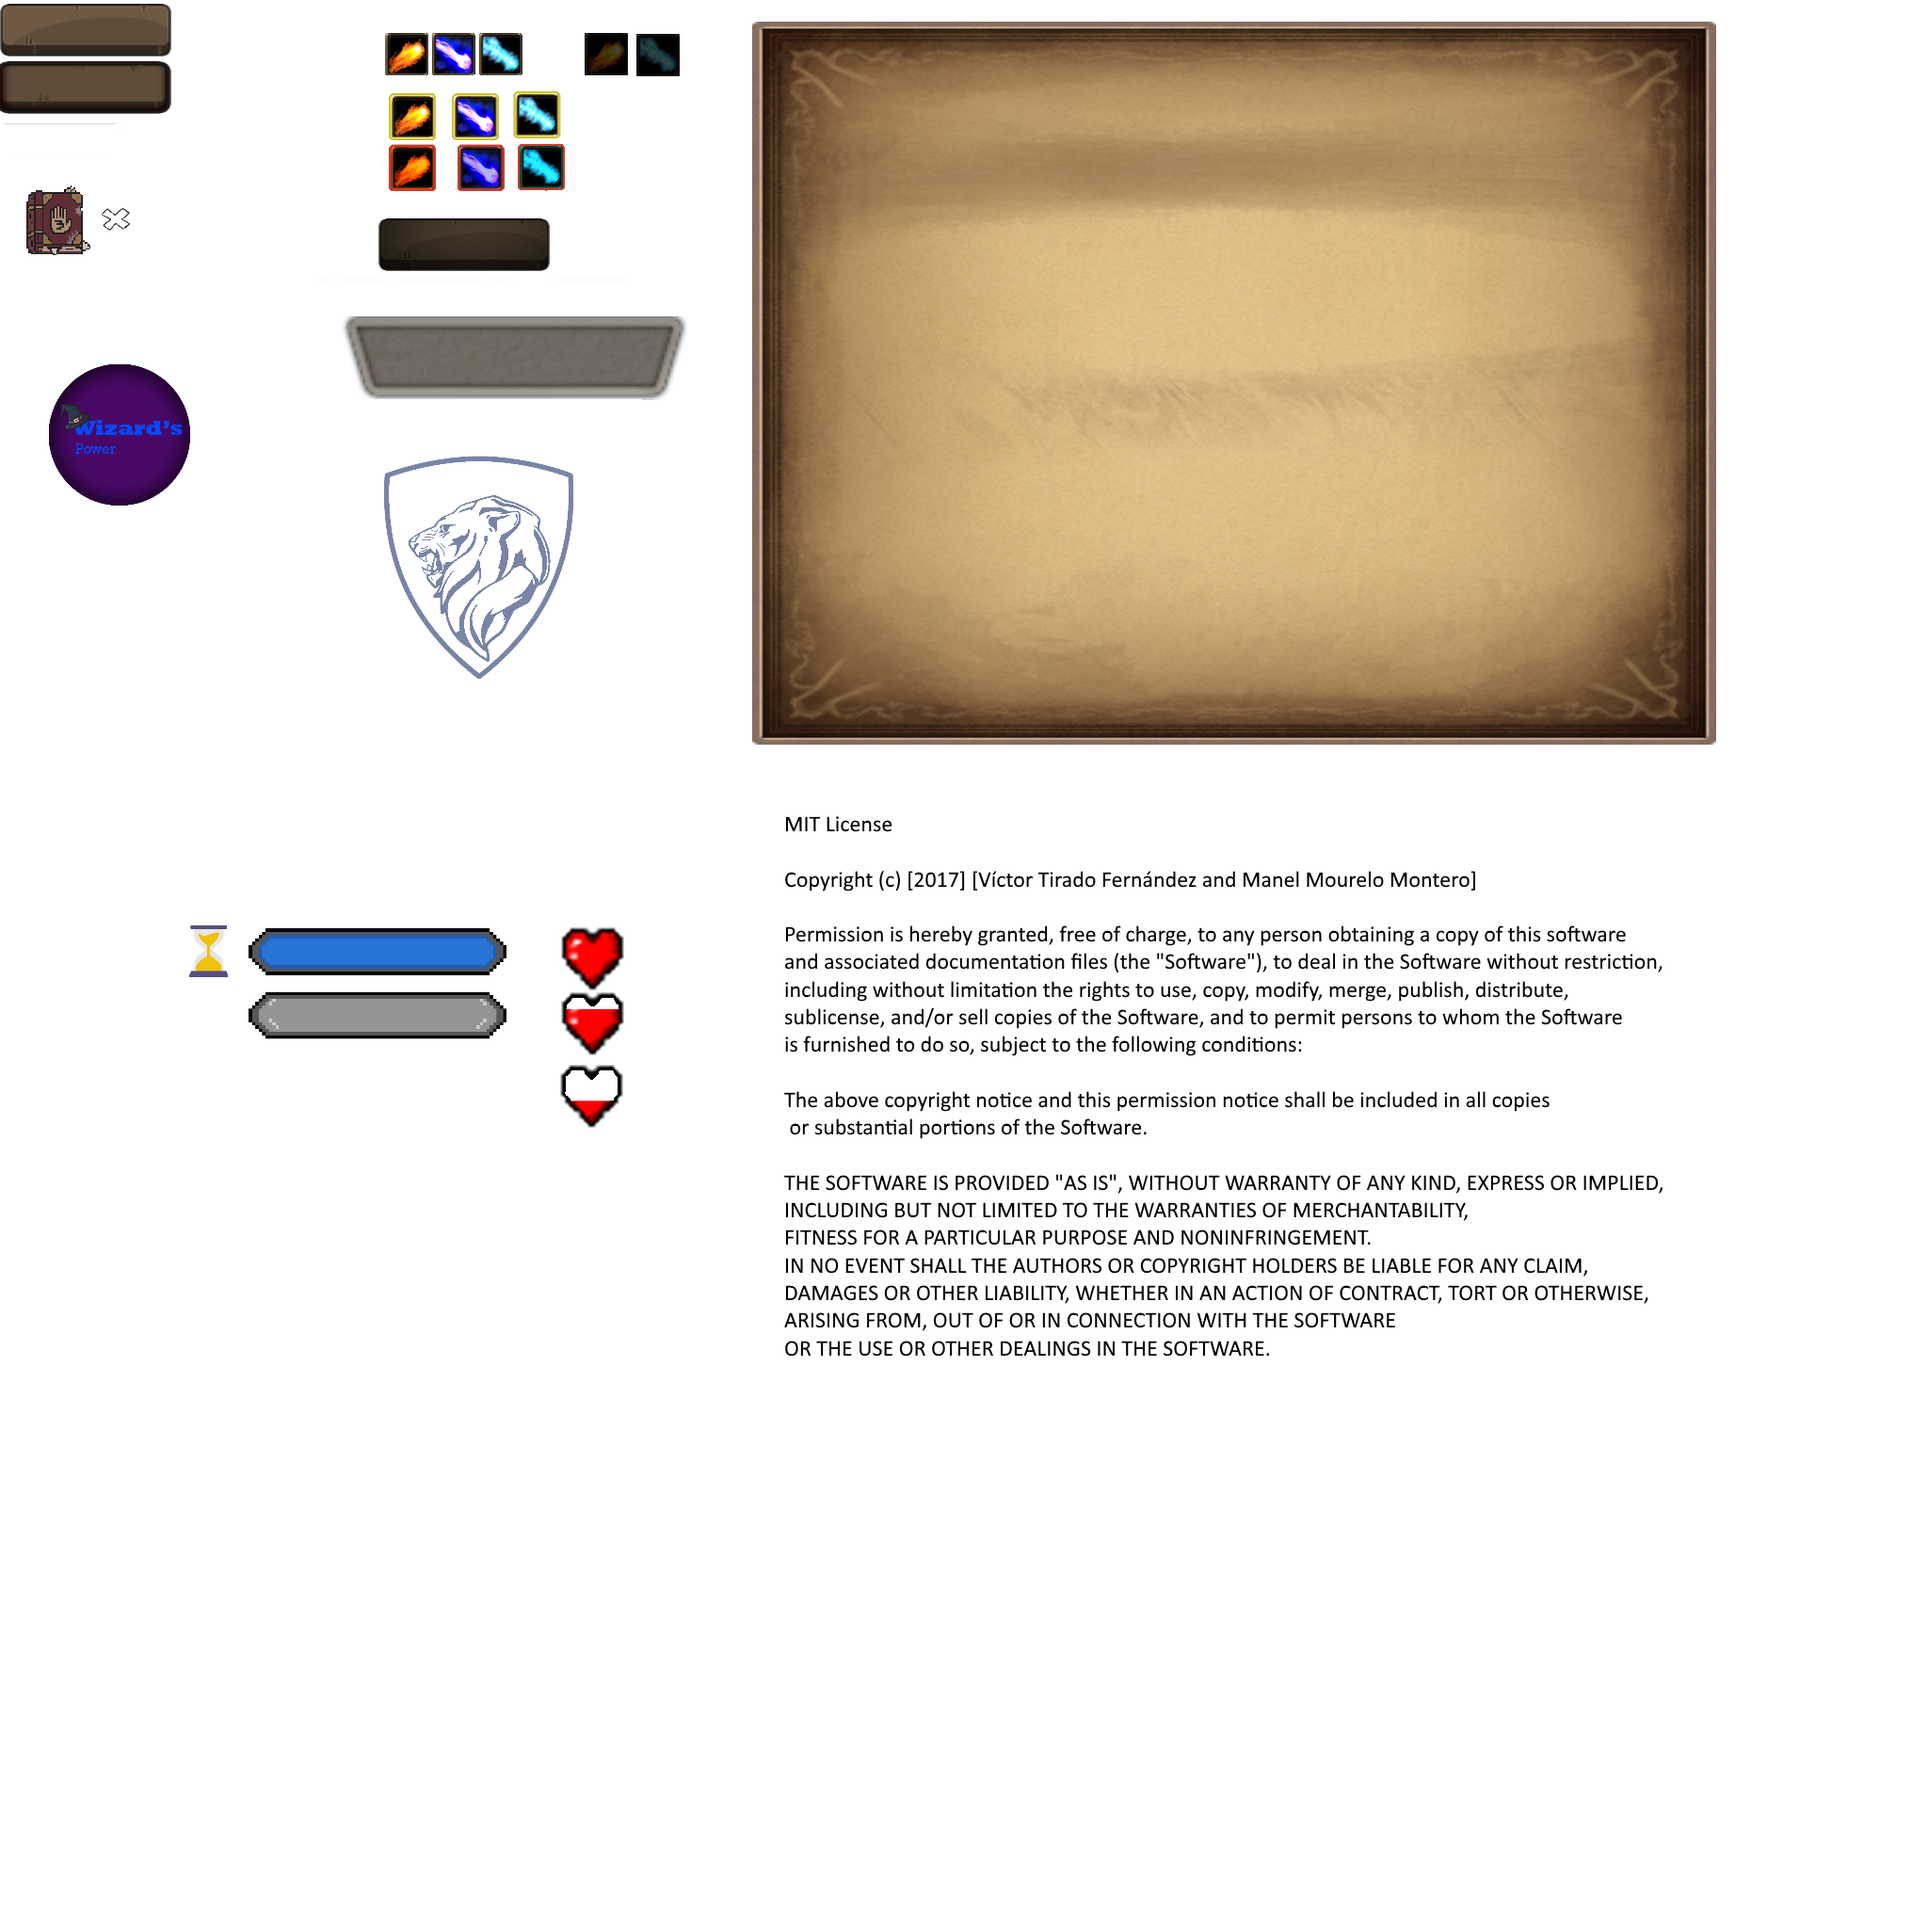
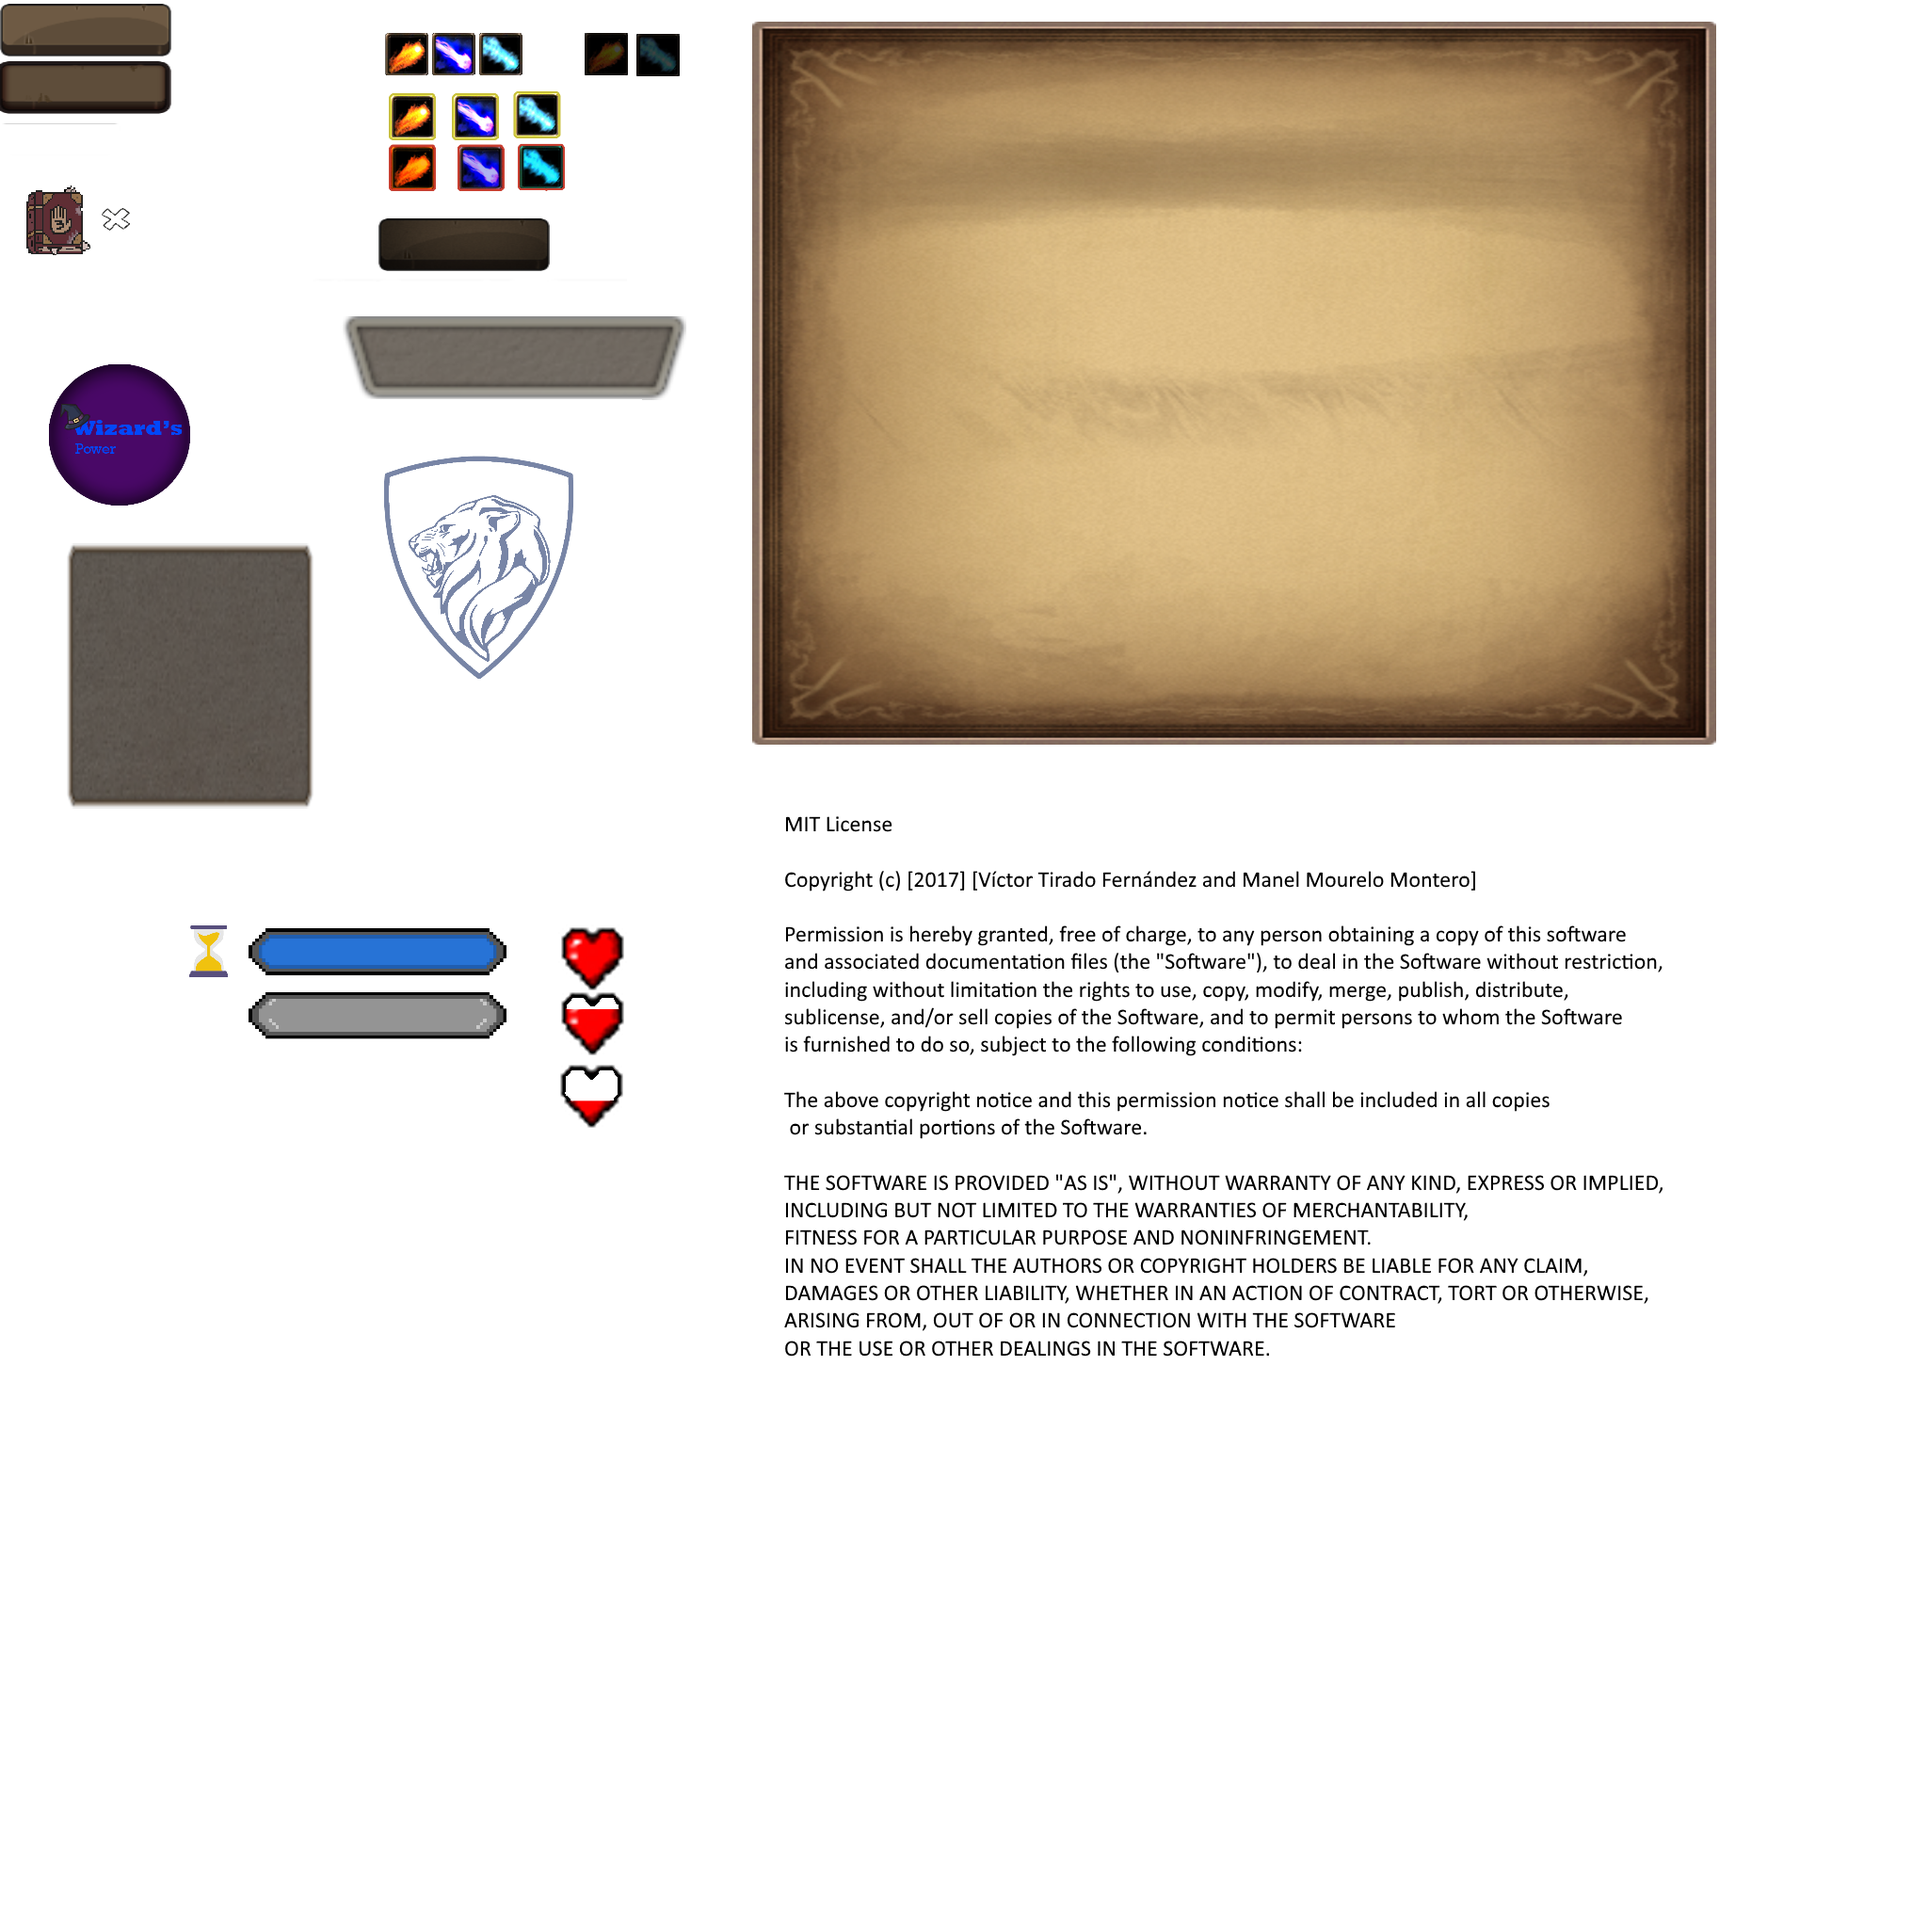
Pause

Changed region(s): [[0.0312, 0.2812, 0.1875, 0.4375]]

diff --git a/Motor2D/j1Pause.cpp b/Motor2D/j1Pause.cpp
@@ -1,0 +1,138 @@
+#include "p2Defs.h"
+#include "p2Log.h"
+#include "j1App.h"
+#include "j1Input.h"
+#include "j1Textures.h"
+#include "j1Audio.h"
+#include "j1Render.h"
+#include "j1Window.h"
+#include "j1Map.h"
+#include "j1PathFinding.h"
+#include "j1Gui.h"
+#include "j1Pause.h"
+#include "j1Fonts.h"
+#include "j1Scene.h"
+#include "j1Player.h"
+#include "j1FadeToBlack.h"
+#include "j1Intro.h"
+
+j1Pause::j1Pause() : j1Module()
+{
+	name.create("pause");
+}
+
+// Destructor
+j1Pause::~j1Pause()
+{}
+
+// Called before render is available
+bool j1Pause::Awake()
+{
+	LOG("Loading Scene");
+	bool ret = true;
+
+	return ret;
+}
+
+// Called before the first frame
+bool j1Pause::Start()
+{
+
+
+	return true;
+}
+
+// Called each loop iteration
+bool j1Pause::PreUpdate()
+{
+	return true;
+}
+
+// Called each loop iteration
+bool j1Pause::Update(float dt)
+{
+	if (first_update == true) {
+		bg = App->gui->AddLabel(365, 178, { 71, 577, 262, 282 }, NULL, this);
+		button_load = App->gui->AddButton(400, 200, { 0,4,182,56 }, "Load", { 255,255,255 }, App->font->default, NULL, this);
+		button_save = App->gui->AddButton(400, 260, { 0,4,182,56 }, "Save", { 255,255,255 }, App->font->default, NULL, this);
+		button_continue = App->gui->AddButton(400, 320, { 0,4,182,56 }, "Continue", { 255,255,255 }, App->font->default, NULL, this);
+		button_exit = App->gui->AddButton(400, 380, { 0,4,182,56 }, "Exit", { 255,255,255 }, App->font->default, NULL, this);
+		
+		first_update = false;
+	}
+
+
+
+	bool ret = true;
+	if (close == true)
+	{
+		ret = false;
+	}
+	// Gui ---
+
+	return ret;
+}
+
+// Called each loop iteration
+bool j1Pause::PostUpdate()
+{
+	bool ret = true;
+
+	/*if (App->input->GetKey(SDL_SCANCODE_ESCAPE) == KEY_DOWN)
+		ret = false;*/
+
+	return ret;
+}
+
+// Called before quitting
+bool j1Pause::CleanUp()
+{
+	LOG("Freeing scene");
+
+	return true;
+}
+
+void j1Pause::GUIInteract(GUI* g)
+{
+	LOG("HIIIIIIIIIIIIIIIIIIIIIIIIIIIIIIIIIIIIIIIIIIIIIIIIIIIIIIIIIIIIIIIIIIIIIIIIIIIIIIIIIIIIIIIIIIIIIII");
+
+
+	if (g == button_save)
+	{
+		LOG("HIIIIIIIIIIIIIIIIIIIIIIIIIIIIIIIIIIIIIIIIIIIIIIIIIIIIIIIIIIIIIIIIIIIIIIIIIIIIIIIIIIIIIIIIIIIIIII");
+		App->fade->FadeToBlack(2.0f);
+		App->intro->active = true;
+		this->active = false;
+		first_update = true;
+		//App->gui->destroyElement(background);
+		//App->gui->destroyElement(license);
+		//App->gui->destroyElement(return_intro);
+	}
+	if (g == button_load)
+	{
+		LOG("HIIIIIIIIIIIIIIIIIIIIIIIIIIIIIIIIIIIIIIIIIIIIIIIIIIIIIIIIIIIIIIIIIIIIIIIIIIIIIIIIIIIIIIIIIIIIIII");
+		App->fade->FadeToBlack(2.0f);
+		App->intro->active = true;
+		this->active = false;
+		first_update = true;
+		//App->gui->destroyElement(background);
+		//App->gui->destroyElement(license);
+		//App->gui->destroyElement(return_intro);
+	}
+	if (g == button_continue)
+	{
+		LOG("HIIIIIIIIIIIIIIIIIIIIIIIIIIIIIIIIIIIIIIIIIIIIIIIIIIIIIIIIIIIIIIIIIIIIIIIIIIIIIIIIIIIIIIIIIIIIIII");
+		App->fade->FadeToBlack(2.0f);
+		App->intro->active = true;
+		this->active = false;
+		first_update = true;
+		//App->gui->destroyElement(background);
+		//App->gui->destroyElement(license);
+		//App->gui->destroyElement(return_intro);
+	}
+	if (g == button_exit)
+	{
+
+		close = true;
+	}
+}

diff --git a/Motor2D/j1Pause.h b/Motor2D/j1Pause.h
@@ -1,0 +1,55 @@
+#ifndef __j1PAUSE_H__
+#define __j1PAUSE_H__
+
+#include "j1Module.h"
+
+struct SDL_Texture;
+class GuiImage;
+class GuiText;
+class GUI;
+
+class j1Pause : public j1Module
+{
+public:
+	bool dragonSpawn = false;
+
+	j1Pause();
+
+	// Destructor
+	virtual ~j1Pause();
+
+	// Called before render is available
+	bool Awake();
+
+	// Called before the first frame
+	bool Start();
+
+	// Called before all Updates
+	bool PreUpdate();
+
+	// Called each loop iteration
+	bool Update(float dt);
+
+	// Called before all Updates
+	bool PostUpdate();
+
+	// Called before quitting
+	bool CleanUp();
+
+	void j1Pause::GUIInteract(GUI* g);
+
+
+	GUI* button_save = NULL;
+	GUI* button_load = NULL;
+	GUI* button_continue = NULL;
+	GUI* button_exit = NULL;
+	GUI* bg = NULL;
+
+	int buttonClicked = 0;
+	bool first_update = true;
+	bool close = false;
+private:
+	
+};
+
+#endif // __j1PAUSE_H__

diff --git a/Motor2D/j1App.cpp b/Motor2D/j1App.cpp
@@ -27,6 +27,7 @@
 #include "j1Win.h"
 #include "j1Lose.h"
 #include "j1Controls.h"
+#include "j1Pause.h"
 
 
 
@@ -59,6 +60,7 @@ j1App::j1App(int argc, char* args[]) : argc(argc), args(args)
 	victory = new j1Win();
 	defeat = new j1Lose();
 	control = new j1Controls();
+	pause = new j1Pause();
 
 	// Ordered for awake / Start / Update
 	// Reverse order of CleanUp
@@ -83,6 +85,7 @@ j1App::j1App(int argc, char* args[]) : argc(argc), args(args)
 	AddModule(defeat);
 	AddModule(intro);
 	AddModule(control);
+	AddModule(pause);
 	AddModule(fade);
 
 	
@@ -168,6 +171,7 @@ bool j1App::Start()
 	victory->active = false;
 	defeat->active = false;
 	control->active = false;
+	pause->active = false;
 
 	while(item != NULL && ret == true)
 	{

diff --git a/Motor2D/j1Scene.cpp b/Motor2D/j1Scene.cpp
@@ -14,6 +14,7 @@
 #include "Brofiler\Brofiler.h"
 #include "j1Gui.h"
 #include "j1Fonts.h"
+#include "j1Pause.h"
 
 j1Scene::j1Scene() : j1Module()
 {
@@ -214,7 +215,10 @@ bool j1Scene::PostUpdate()
 	bool ret = true;
 
 	if(App->input->GetKey(SDL_SCANCODE_ESCAPE) == KEY_DOWN)
-		ret = false;
+	{
+		App->pause->active = true;
+	}
+		
 
 	return ret;
 }

diff --git a/Motor2D/j1App.h b/Motor2D/j1App.h
@@ -32,6 +32,7 @@ class j1Credits;
 class j1Win;
 class j1Lose;
 class j1Controls;
+class j1Pause;
 
 
 class j1App
@@ -119,6 +120,7 @@ public:
 	j1Win*				victory = NULL;
 	j1Lose*				defeat = NULL;
 	j1Controls*			control = NULL;
+	j1Pause*			pause = NULL;
 
 private:
 

diff --git a/Motor2D/j1Settings.cpp b/Motor2D/j1Settings.cpp
@@ -83,8 +83,8 @@ bool j1Settings::PostUpdate()
 {
 	bool ret = true;
 
-	if (App->input->GetKey(SDL_SCANCODE_ESCAPE) == KEY_DOWN)
-		ret = false;
+	/*if (App->input->GetKey(SDL_SCANCODE_ESCAPE) == KEY_DOWN)
+		ret = false;*/
 
 	return ret;
 }

diff --git a/Motor2D/j1Credits.cpp b/Motor2D/j1Credits.cpp
@@ -76,8 +76,8 @@ bool j1Credits::PostUpdate()
 {
 	bool ret = true;
 
-	if (App->input->GetKey(SDL_SCANCODE_ESCAPE) == KEY_DOWN)
-		ret = false;
+	/*if (App->input->GetKey(SDL_SCANCODE_ESCAPE) == KEY_DOWN)
+		ret = false;*/
 
 	return ret;
 }

diff --git a/Motor2D/j1Lose.cpp b/Motor2D/j1Lose.cpp
@@ -98,8 +98,8 @@ bool j1Lose::PostUpdate()
 {
 	bool ret = true;
 
-	if (App->input->GetKey(SDL_SCANCODE_ESCAPE) == KEY_DOWN)
-		ret = false;
+	/*if (App->input->GetKey(SDL_SCANCODE_ESCAPE) == KEY_DOWN)
+		ret = false;*/
 
 	return ret;
 }

diff --git a/Motor2D/j1Win.cpp b/Motor2D/j1Win.cpp
@@ -96,8 +96,8 @@ bool j1Win::PostUpdate()
 {
 	bool ret = true;
 
-	if (App->input->GetKey(SDL_SCANCODE_ESCAPE) == KEY_DOWN)
-		ret = false;
+	/*if (App->input->GetKey(SDL_SCANCODE_ESCAPE) == KEY_DOWN)
+		ret = false;*/
 
 	return ret;
 }

diff --git a/Motor2D/j1Controls.cpp b/Motor2D/j1Controls.cpp
@@ -95,9 +95,9 @@ bool j1Controls::PostUpdate()
 {
 	bool ret = true;
 
-	if (App->input->GetKey(SDL_SCANCODE_ESCAPE) == KEY_DOWN)
+	/*if (App->input->GetKey(SDL_SCANCODE_ESCAPE) == KEY_DOWN)
 		ret = false;
-
+*/
 	return ret;
 }
 

diff --git a/Motor2D/j1Intro.cpp b/Motor2D/j1Intro.cpp
@@ -141,9 +141,9 @@ bool j1Intro::PostUpdate()
 {
 	bool ret = true;
 
-	if (App->input->GetKey(SDL_SCANCODE_ESCAPE) == KEY_DOWN)
+	/*if (App->input->GetKey(SDL_SCANCODE_ESCAPE) == KEY_DOWN)
 		ret = false;
-
+*/
 	return ret;
 }
 
